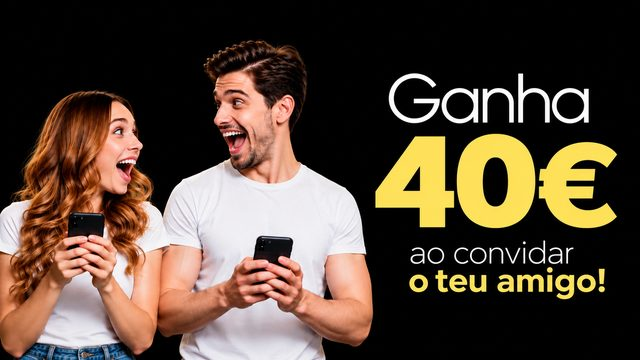
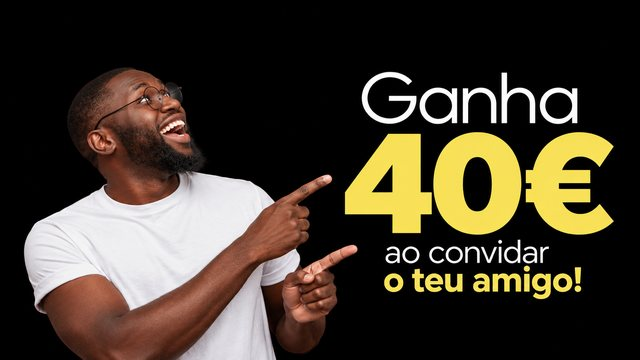
Traz um amigo: cartaz horizontal no fim do Mais; cartaz vertical em ecra inteiro na 1a vez (como Pagamentos online)
Claude-Session: https://claude.ai/code/session_01ESiyGJ3vPYy4diqd7vefik

diff --git a/src/pages/admin/Indicacoes.jsx b/src/pages/admin/Indicacoes.jsx
@@ -1,5 +1,6 @@
 import React, { useEffect, useState } from 'react';
-import { Gift, Copy, Check, Share2, Euro, Clock3, BadgeCheck } from 'lucide-react';
+import { createPortal } from 'react-dom';
+import { Copy, Check, Share2, Clock3, BadgeCheck, X } from 'lucide-react';
 import AdminPage from '@/components/admin/AdminPage';
 import { useStore } from '@/hooks/useStore';
 import { useToast } from '@/components/ui/ToastContext';
@@ -39,6 +40,9 @@ export default function Indicacoes() {
   const [tipoRecebe, setTipoRecebe] = useState(/^iban/i.test(recebeGravado) ? 'iban' : 'mbway');
   const [numRecebe, setNumRecebe] = useState(recebeGravado.replace(/^(mb\s*way|iban)\s*/i, ''));
   const [aGravar, setAGravar] = useState(false);
+  // Na 1.ª vez, o cartaz abre em ecrã inteiro (como os Pagamentos online).
+  const [cartaz, setCartaz] = useState(() => { try { return localStorage.getItem('convecta_indicacoes_visto') !== '1'; } catch { return true; } });
+  const fecharCartaz = () => { try { localStorage.setItem('convecta_indicacoes_visto', '1'); } catch { /* nada */ } setCartaz(false); };
   // Junta o tipo + o número num texto só, que é o que o super admin lê.
   const recebeMontado = numRecebe.trim() ? (tipoRecebe === 'iban' ? 'IBAN ' + numRecebe.trim() : 'MB WAY ' + numRecebe.trim()) : '';
 
@@ -76,11 +80,7 @@ export default function Indicacoes() {
       <div className="ind">
 
         <section className="ind-hero">
-          <img className="ind-cartaz"
-            src="/indicacoes/ganha-40-amigo.jpg"
-            srcSet="/indicacoes/ganha-40-amigo-640.jpg 640w, /indicacoes/ganha-40-amigo.jpg 1280w"
-            sizes="(max-width: 700px) 100vw, 640px"
-            alt={`Ganha ${VALOR} € ao convidar o teu amigo`} />
+          <h2>Ganha <b>{VALOR} €</b> por cada amigo</h2>
           <p>Por cada barbearia, salão ou estética que entre pelo teu link e pague o 1.º mês, recebes {VALOR} € em dinheiro. Sem limite — 3 amigos são {VALOR * 3} €.</p>
         </section>
 
@@ -159,6 +159,16 @@ export default function Indicacoes() {
         </div>
 
       </div>
+
+      {cartaz && createPortal(
+        <div className="ind-full" role="dialog" aria-modal="true" aria-label="Ganha 40 € ao convidar um amigo">
+          <picture>
+            <source media="(min-width: 768px)" srcSet="/indicacoes/ganha-40-amigo.jpg" />
+            <img src="/indicacoes/ganha-40-amigo-tlm.jpg" alt="Ganha 40 € ao convidar o teu amigo" />
+          </picture>
+          <button type="button" className="ind-full-x" onClick={fecharCartaz} aria-label="Fechar"><X size={26} /></button>
+          <button type="button" className="ind-full-btn" onClick={fecharCartaz}>Começar</button>
+        </div>, document.body)}
     </AdminPage>
   );
 }
@@ -166,8 +176,14 @@ export default function Indicacoes() {
 const CSS = `
 .ind { max-width: 640px; display: grid; gap: 22px; }
 .po-nowrap { white-space: nowrap; }
-.ind-hero { text-align: center; padding: 0 0 4px; }
-.ind-cartaz { display: block; width: 100%; max-width: 560px; margin: 0 auto 16px; border-radius: 16px; }
+/* Cartaz em ecrã inteiro (1.ª vez), à Pagamentos online */
+.ind-full { position: fixed; inset: 0; z-index: 9000; background: #000; display: flex; align-items: center; justify-content: center; animation: ind-full-entra 240ms ease backwards; }
+@keyframes ind-full-entra { from { opacity: 0; } }
+.ind-full picture, .ind-full img { position: absolute; inset: 0; width: 100%; height: 100%; object-fit: cover; }
+.ind-full-x { position: absolute; z-index: 2; top: calc(env(safe-area-inset-top, 0px) + 12px); right: 14px; width: 48px; height: 48px; border-radius: 999px; border: 0; background: rgba(0,0,0,.45); backdrop-filter: blur(6px); color: #fff; display: grid; place-items: center; cursor: pointer; }
+.ind-full-btn { position: absolute; z-index: 2; left: 50%; transform: translateX(-50%); bottom: calc(env(safe-area-inset-bottom, 0px) + 28px); min-height: 54px; padding: 0 44px; border-radius: 999px; border: 0; background: var(--gold); color: #15120E; font: inherit; font-size: 17px; font-weight: 800; cursor: pointer; box-shadow: 0 10px 30px rgba(0,0,0,.4); }
+@media (min-width: 768px) { .ind-full img, .ind-full picture { max-width: 1100px; position: relative; height: auto; } .ind-full { padding: 24px; } }
+.ind-hero { text-align: center; padding: 6px 0 4px; }
 .ind-selo { width: 54px; height: 54px; border-radius: 16px; margin: 0 auto 14px; display: grid; place-items: center; color: #15120E; background: var(--gold); }
 .ind-hero h2 { font-family: var(--font-head); font-size: clamp(26px, 6vw, 34px); margin: 0 0 8px; color: var(--text); }
 .ind-hero h2 b { color: var(--gold-tinta); }

diff --git a/src/pages/admin/Mais.jsx b/src/pages/admin/Mais.jsx
@@ -97,14 +97,6 @@ export default function Mais() {
           <div className="mais-link"><LinkDaBarbearia /></div>
         </header>
 
-        {!data.isProfissional && (
-          <Link to="/admin/indicacoes" className="mais-indica">
-            <span className="mais-indica-ico"><Gift size={20} /></span>
-            <span className="mais-indica-txt"><b>Ganha 40 € por amigo</b><span>Indica outro negócio e recebe dinheiro</span></span>
-            <ChevronRight size={20} />
-          </Link>
-        )}
-
         <section className="mais-bloco"><Caixas itens={caixas} colunas={2} azulejos /></section>
 
         <section className="mais-bloco">
@@ -154,6 +146,12 @@ export default function Mais() {
           </div>
         </Modal>
 
+        {!data.isProfissional && (
+          <Link to="/admin/indicacoes" className="mais-cartaz" aria-label="Ganha 40 € ao convidar um amigo">
+            <img src="/indicacoes/ganha-40-amigo.jpg" srcSet="/indicacoes/ganha-40-amigo-640.jpg 640w, /indicacoes/ganha-40-amigo.jpg 1280w" sizes="(max-width: 700px) 100vw, 560px" alt="Ganha 40 € ao convidar um amigo" />
+          </Link>
+        )}
+
         <button type="button" className="mais-sair" onClick={logout}>
           <LogOut size={17} /> Terminar sessão
         </button>
@@ -169,11 +167,8 @@ export default function Mais() {
 const CANAL_YOUTUBE = 'https://www.youtube.com/watch?v=96XY7C_AlTQ';
 
 const CSS = `
-.mais-indica { display: flex; align-items: center; gap: 14px; padding: 16px; border-radius: 16px; text-decoration: none; margin-bottom: 22px; background: var(--gold); color: #15120E; }
-.mais-indica-ico { width: 40px; height: 40px; border-radius: 12px; background: rgba(0,0,0,.14); display: grid; place-items: center; flex-shrink: 0; }
-.mais-indica-txt { flex: 1; min-width: 0; display: grid; gap: 2px; }
-.mais-indica-txt b { font-size: 16.5px; }
-.mais-indica-txt span { font-size: 13.5px; opacity: .8; white-space: nowrap; overflow: hidden; text-overflow: ellipsis; }
+.mais-cartaz { display: block; margin: 8px 0 22px; border-radius: 16px; overflow: hidden; box-shadow: 0 10px 30px rgba(0,0,0,.18); }
+.mais-cartaz img { display: block; width: 100%; height: auto; }
 .mais { width: 100%; max-width: 560px; min-width: 0; margin: 0 auto; box-sizing: border-box; }
 .mais-topo, .mais-bloco, .mais-caixa, .mais-link { min-width: 0; max-width: 100%; }
 
